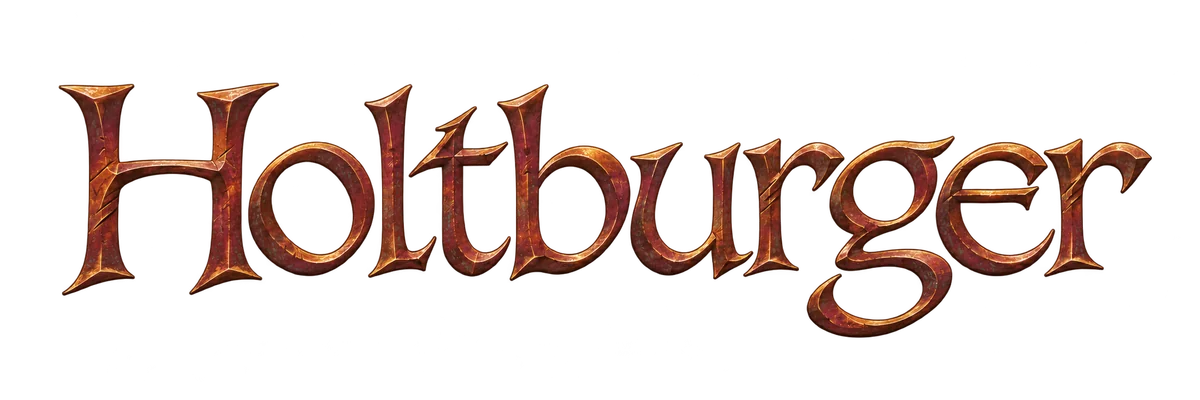
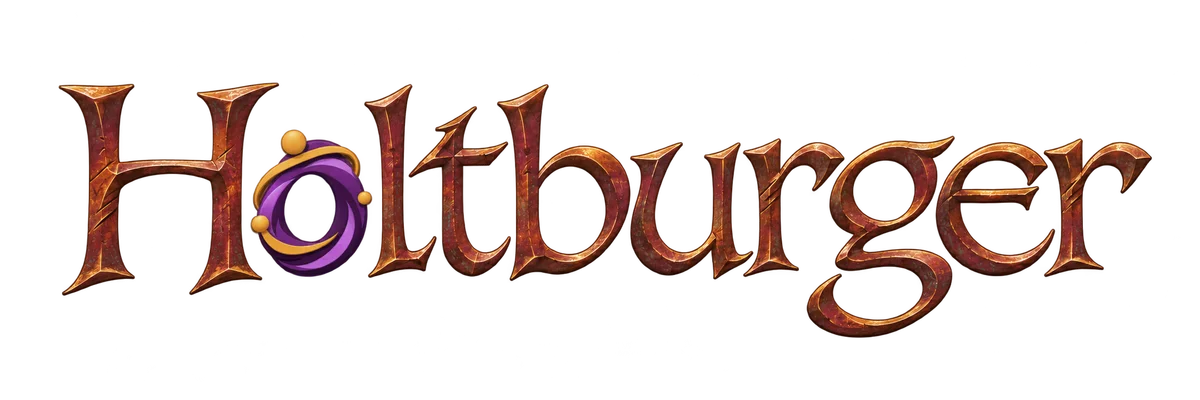
Integrate dimensional portal into site wordmark
Replace the lowercase o with the shaded portal from the imagegen exploration while preserving the original copper lettering. Remove the separate masthead portal and simplify wordmark sizing.

Keep the 2172 x 724 composite in the media library as branding/wordmark-source-v2.png and bundle a 1200 x 400 quality-85 WebP. Document the source and export workflow.

Validation: site checks, formatting checks, production build, and diff whitespace checks passed.

Changed region(s): [[0.185, 0.33, 0.3392, 0.69]]

diff --git a/site/src/routes/+layout.svelte b/site/src/routes/+layout.svelte
@@ -46,13 +46,6 @@
 			<div class="masthead">
 				<a class="brand" href={resolve('/')} aria-label="Holtburger home">
 					<img
-						class="brand-logo"
-						src={asset('assets/branding/portal-docs.png')}
-						width="192"
-						height="192"
-						alt=""
-					/>
-					<img
 						class="brand-wordmark"
 						src={asset('assets/branding/wordmark.webp')}
 						width="1200"

diff --git a/site/src/styles/site.css b/site/src/styles/site.css
@@ -128,16 +128,9 @@ h3 {
 	text-decoration: none;
 	z-index: 1;
 }
-.brand-logo {
-	width: 15%;
-	height: auto;
-	flex-shrink: 0;
-}
 .brand-wordmark {
-	flex: 1;
-	min-width: 0;
-	/* Bring the visible lettering closer across the two images' transparent margins. */
-	margin-left: -4%;
+	width: 100%;
+	height: auto;
 }
 .masthead-landscape {
 	position: absolute;

diff --git a/site/assets/branding/README.md b/site/assets/branding/README.md
@@ -1,15 +1,17 @@
 # Site branding
 
 The [copper wordmark](wordmark.webp) is the approved illustrated site title,
-generated with imagegen using the historical artwork mood board. Its transparent
-background lets the header's parchment show through. Preserve its lettering and
-copper highlights.
+combining the original copper lettering with the dimensional portal from an
+imagegen exploration in place of the lowercase “o”. Its transparent background
+lets the header's parchment show through. Preserve its lettering, copper
+highlights, and portal shading.
 
-The site uses a 1200 × 400 transparent WebP at quality 85. The full-resolution
-original lives in the [media repository](https://github.com/merklejerk/holtburger-media/blob/main/branding/wordmark-source-v1.png)
-as `branding/wordmark-source-v1.png`.
-Export directly from that original when changing the web asset; avoid recompressing
-the WebP.
+The site uses a 1200 × 400 transparent WebP at quality 85. The 2172 × 724
+composited source lives in the
+[media repository](https://github.com/merklejerk/holtburger-media)
+as `branding/wordmark-source-v2.png`, alongside the original copper artwork at
+`branding/wordmark-source-v1.png`. Export directly from the composited source
+when changing the web asset; avoid recompressing the WebP.
 
 Asset preparation copies it to the generated `static/assets/branding/` directory.
 The portal emblem and favicon remain shared assets in the repository-root
